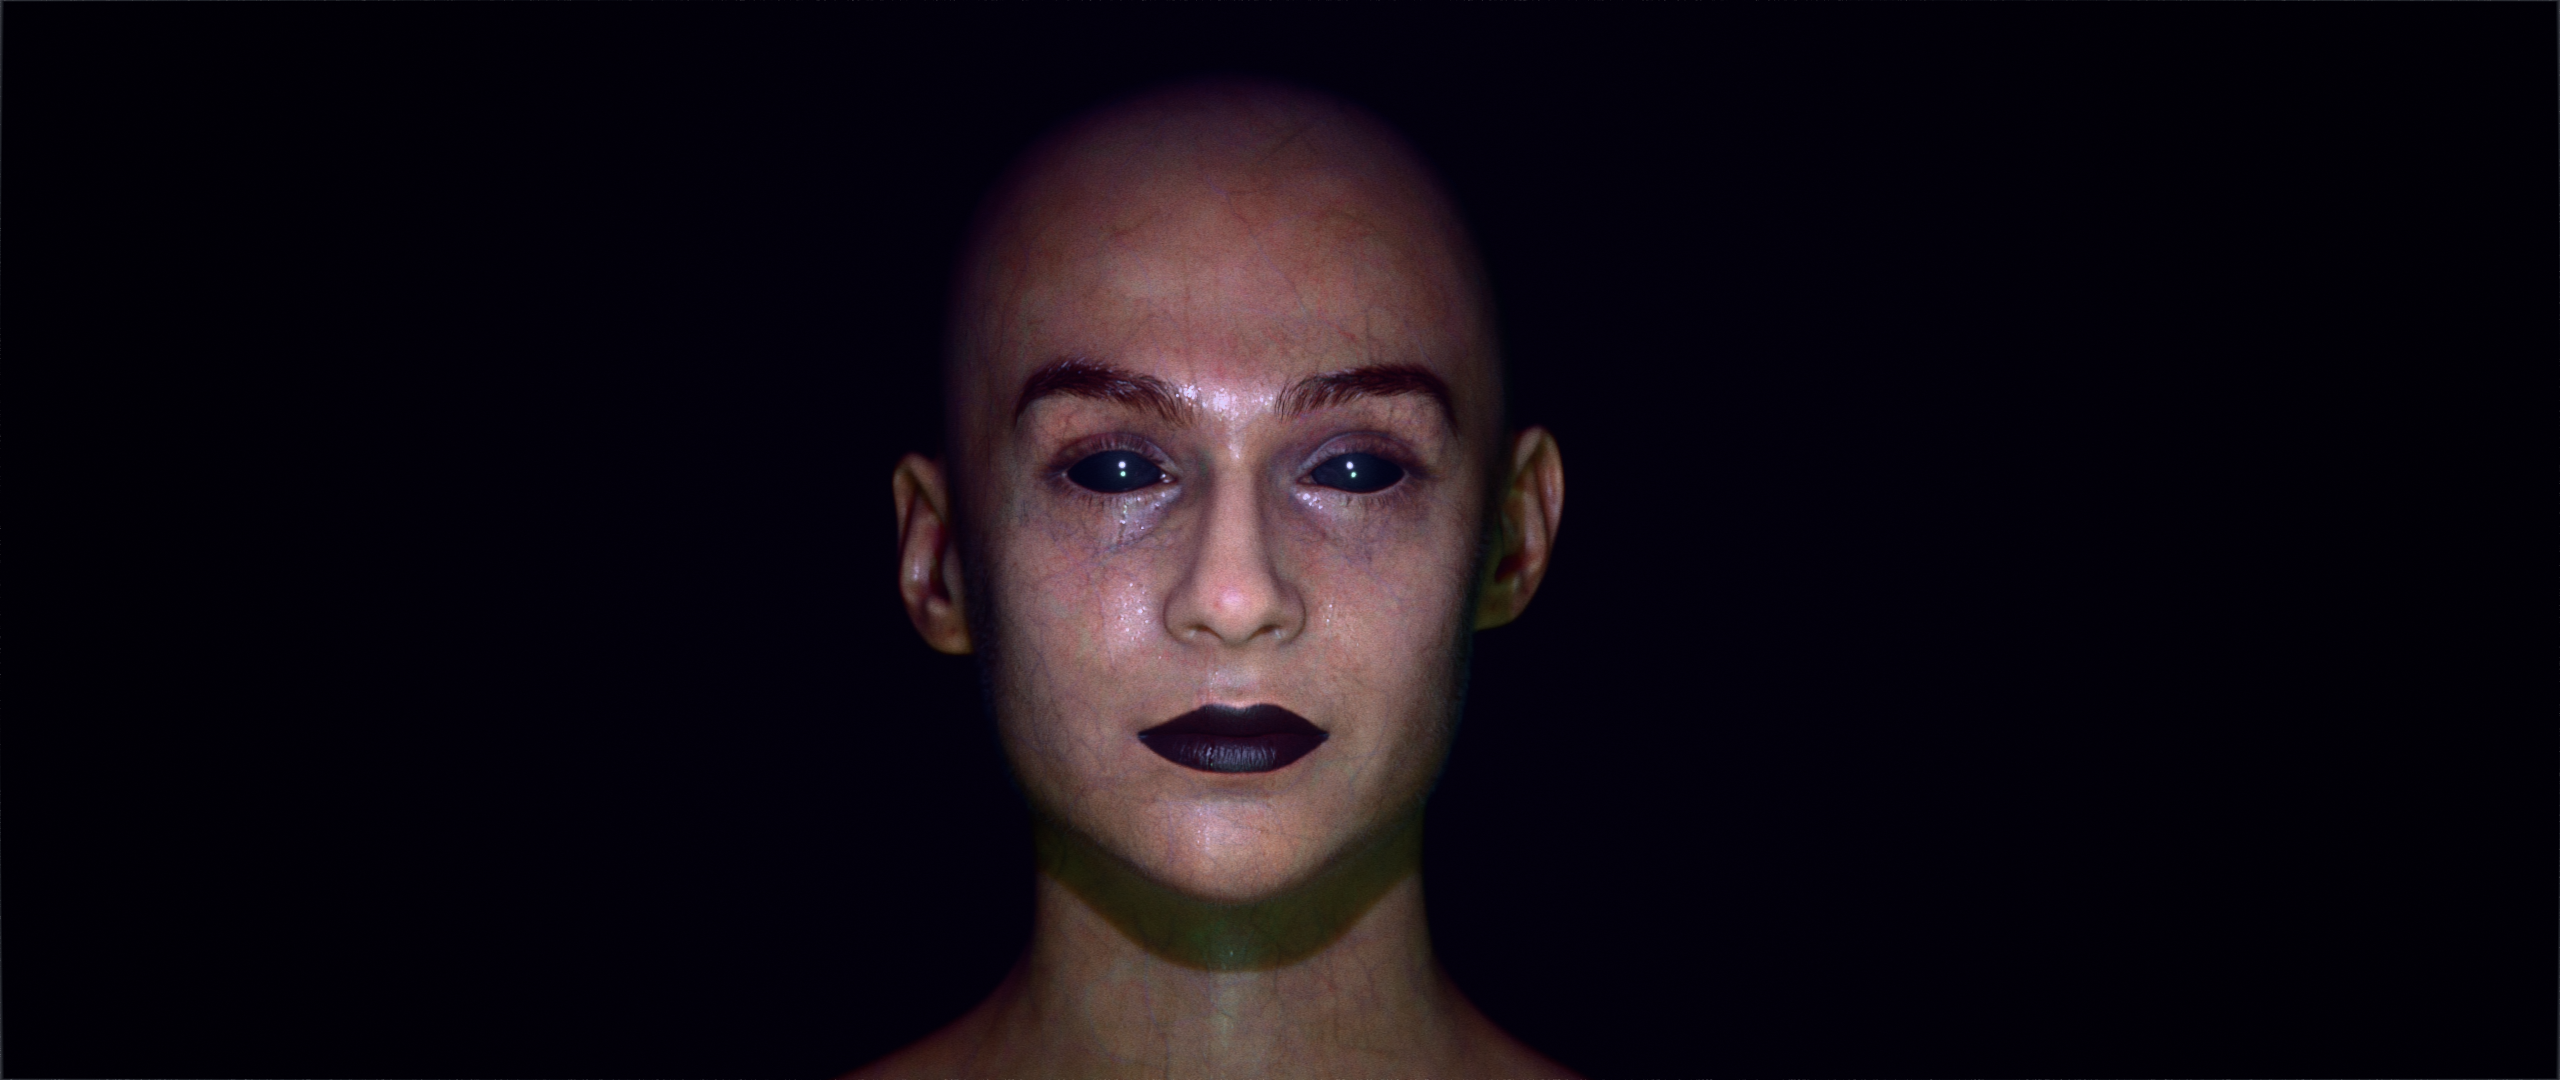
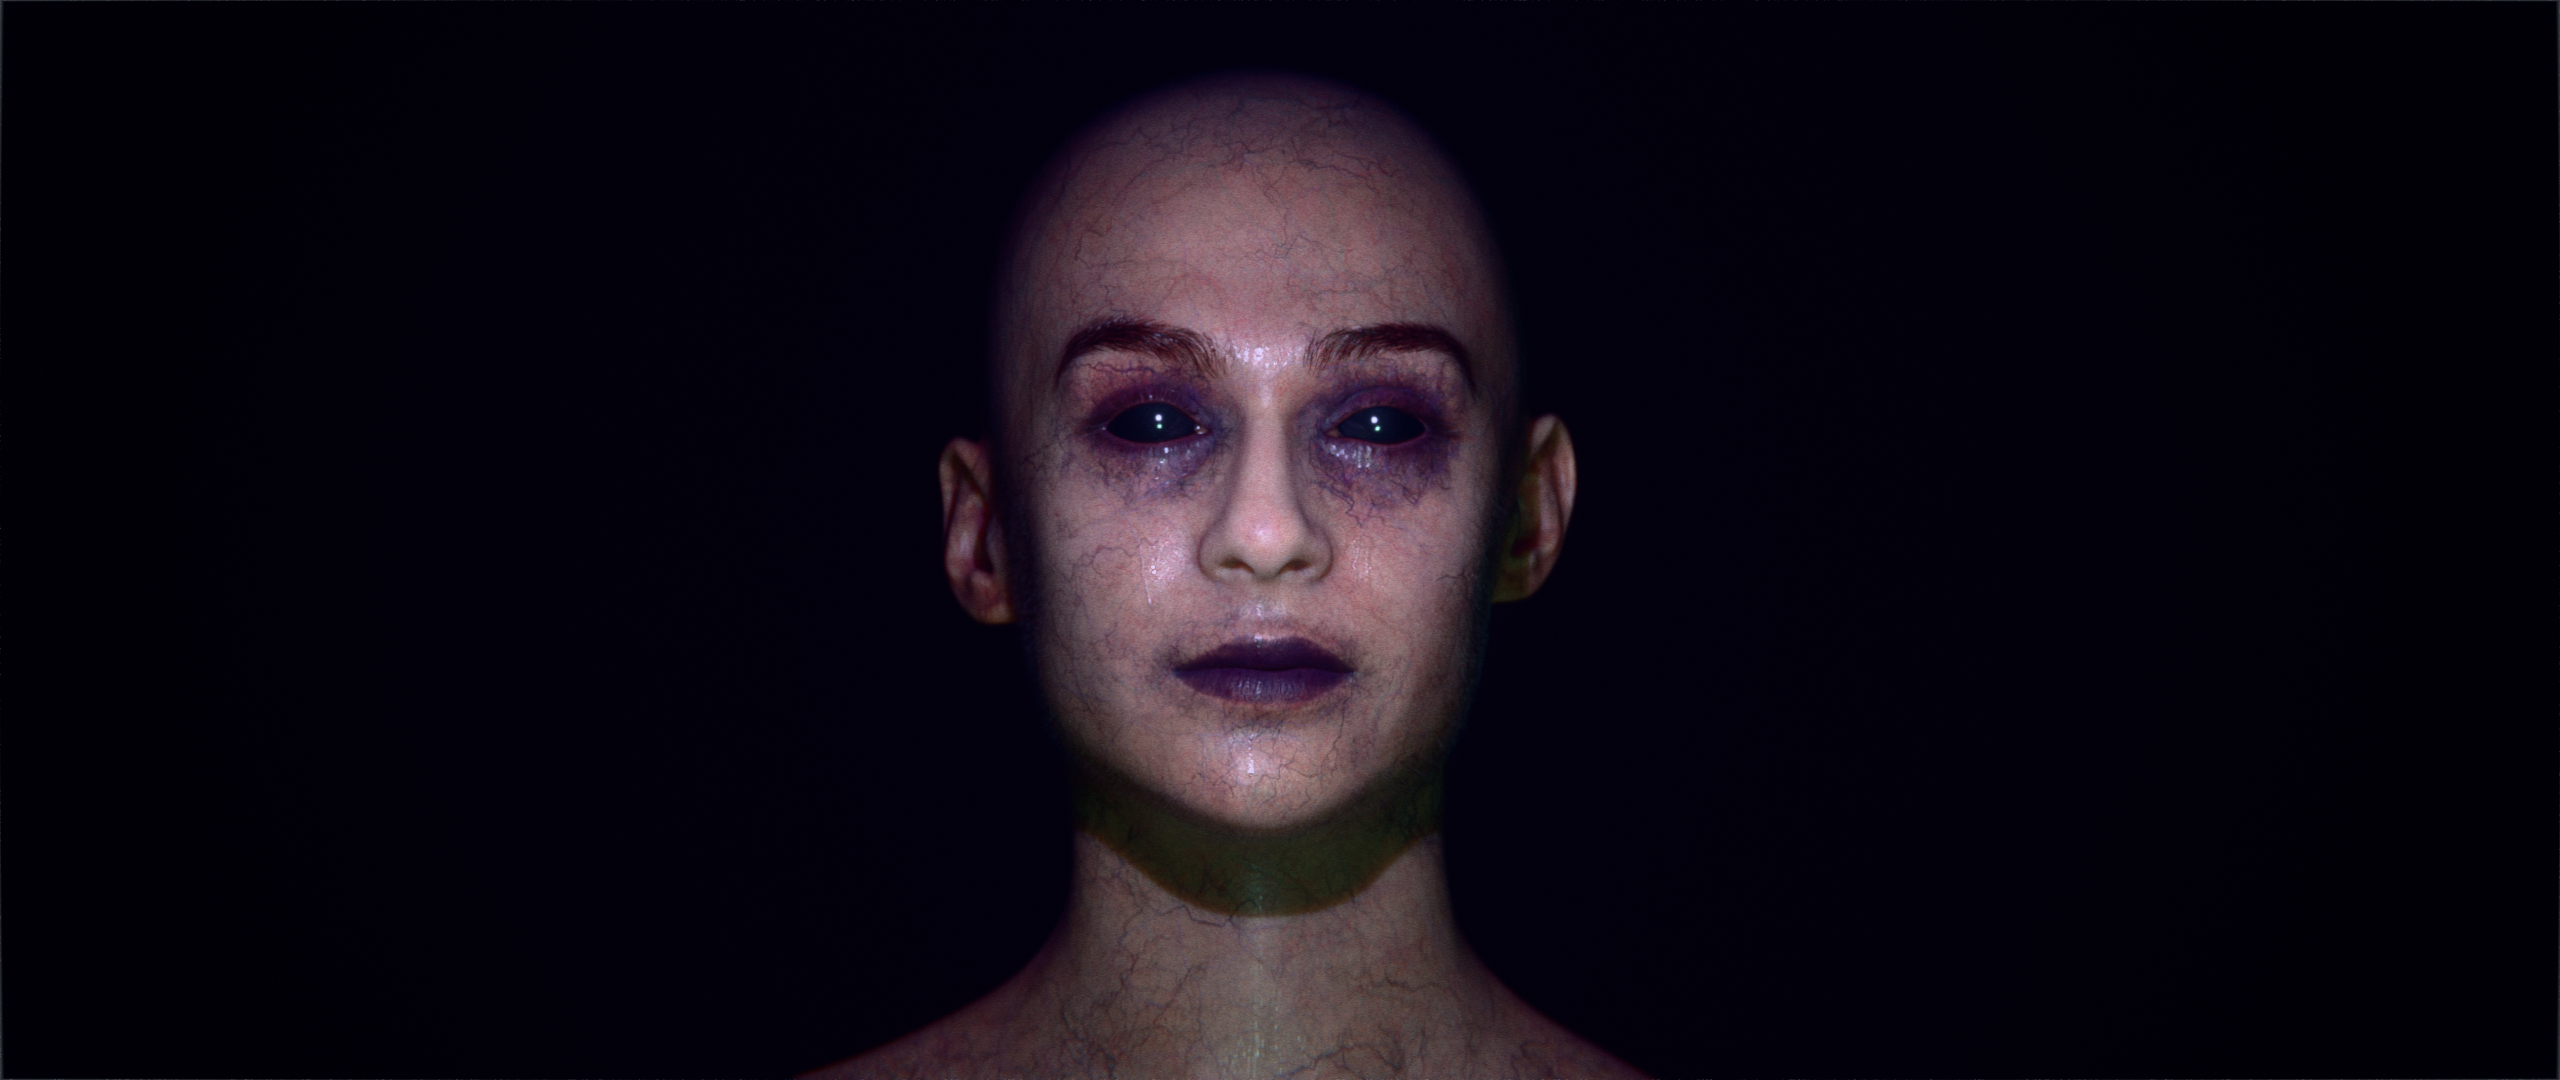
up

Changed region(s): [[0.3438, 0.1222, 0.6562, 1.0], [0.3438, 0.9472, 0.375, 0.9778], [0.3125, 0.9778, 0.3438, 1.0]]

diff --git a/generate_manifests.py b/generate_manifests.py
@@ -1,0 +1,37 @@
+import os
+import json
+
+# Ruta a tu carpeta local de GitHub Pages
+# Cambia esto si tu repositorio está en otro lugar
+BASE_PATH = r"C:\Users\Inti\Documents\GitHub\Pages\Pages\images"
+
+EXTENSIONS = {'.png', '.jpg', '.jpeg', '.webp'}
+
+categories = [
+    "materials",
+    "textures",
+    "brushes",
+    "decals",
+    "dynamic_textures",
+    "dynamic_decals",
+    "fade_slider",
+]
+
+for cat in categories:
+    folder = os.path.join(BASE_PATH, cat)
+    if not os.path.exists(folder):
+        print(f"⚠  Carpeta no encontrada: {folder}")
+        continue
+
+    files = sorted([
+        f for f in os.listdir(folder)
+        if os.path.splitext(f)[1].lower() in EXTENSIONS
+    ])
+
+    manifest_path = os.path.join(folder, "manifest.json")
+    with open(manifest_path, 'w') as mf:
+        json.dump(files, mf)
+
+    print(f"✅ {cat}: {len(files)} imágenes → manifest.json generado")
+
+print("\nListo. Sube los archivos manifest.json a GitHub junto con tus imágenes.")
